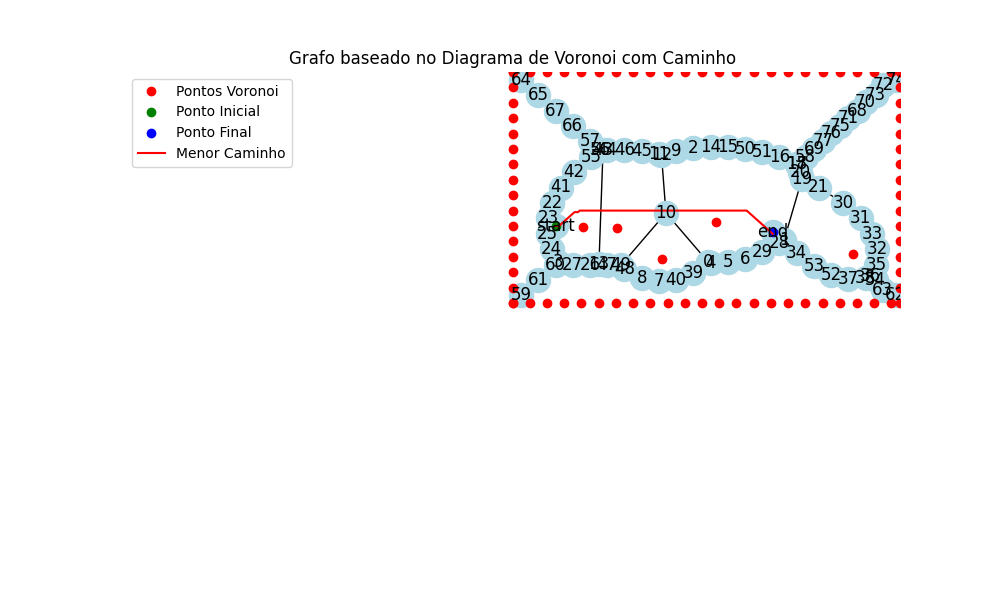
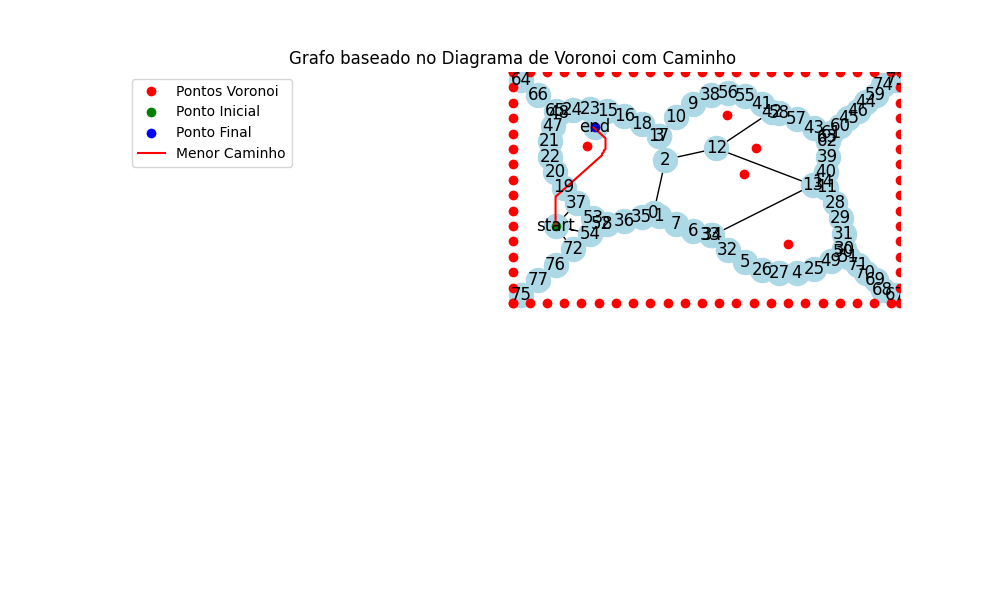
tome, agr os 3 tem path

Changed region(s): [[0.527, 0.12, 0.899, 0.51], [0.496, 0.48, 0.527, 0.51]]

diff --git a/motion/visualization.py b/motion/visualization.py
@@ -1,70 +1,48 @@
 import pygame
 import sys
 import random
-from utils.pose2D import Pose2D  # Importa a classe Pose2D
-from motion.veronoi import VoronoiGraph  # Certifique-se de que a classe VoronoiGraph está implementada corretamente no módulo motion.veronoi
-from motion.bestPath import BestPath  # Importa a classe BestPath
-
-# Para rodar usar o comando python3 -m motion.visualization
-# com o terminal na pasta UTBots-SSL-EL-Strategy
-
-# Gera pontos na borda da imagem, espaçados a cada n pixels
-def gerar_pontos_borda(largura, altura, espacamento=50, limite_maximo=100):
-    """
-    Gera pontos na borda de uma área retangular.
-    :param largura: Largura da área.
-    :param altura: Altura da área.
-    :param espacamento: Distância entre os pontos consecutivos.
-    :param limite_maximo: Número máximo de pontos a serem gerados.
-    :return: Lista de pontos na borda.
-    """
-    pontos_borda = []
-
-    # Pontos na borda superior
-    for x in range(0, largura + 1, espacamento):
-        pontos_borda.append(Pose2D(x, 0))
-        if len(pontos_borda) >= limite_maximo:
-            return pontos_borda
-
-    # Pontos na borda inferior
-    for x in range(0, largura + 1, espacamento):
-        pontos_borda.append(Pose2D(x, altura))
-        if len(pontos_borda) >= limite_maximo:
-            return pontos_borda
-
-    # Pontos na borda esquerda
-    for y in range(0, altura + 1, espacamento):
-        pontos_borda.append(Pose2D(0, y))
-        if len(pontos_borda) >= limite_maximo:
-            return pontos_borda
-
-    # Pontos na borda direita
-    for y in range(0, altura + 1, espacamento):
-        pontos_borda.append(Pose2D(largura, y))
-        if len(pontos_borda) >= limite_maximo:
-            return pontos_borda
-
-    return pontos_borda
+from utils.pose2D import Pose2D
+from motion.veronoi import VoronoiGraph
+from motion.bestPath import BestPath
 
 def visualisation():
-    # Inicializa o Pygame
     pygame.init()
 
-    # Tamanho da tela visível
-    TELA_LARGURA = 4500 * 0.2
-    TELA_ALTURA = 3000 * 0.2
+    TELA_LARGURA = int(4500 * 0.2)
+    TELA_ALTURA = int(3000 * 0.2)
     TELA = pygame.display.set_mode((TELA_LARGURA, TELA_ALTURA))
     pygame.display.set_caption("Múltiplas Trajetórias")
 
-    # Tamanho do mundo virtual
     MUNDO_LARGURA = 4500
     MUNDO_ALTURA = 3000
-    
-    # Gera os pontos na borda da imagem
-    pontos_borda = gerar_pontos_borda(MUNDO_LARGURA, MUNDO_ALTURA, espacamento=200, limite_maximo=300)
-    # Adiciona os pontos da borda à lista de pontos
 
-    # Cores
+    def gerar_pontos_borda(largura, altura, espacamento=50, limite_maximo=100):
+        pontos_borda = []
+
+        for x in range(0, largura + 1, espacamento):
+            pontos_borda.append(Pose2D(x, 0))
+            if len(pontos_borda) >= limite_maximo:
+                return pontos_borda
+
+        for x in range(0, largura + 1, espacamento):
+            pontos_borda.append(Pose2D(x, altura))
+            if len(pontos_borda) >= limite_maximo:
+                return pontos_borda
+
+        for y in range(0, altura + 1, espacamento):
+            pontos_borda.append(Pose2D(0, y))
+            if len(pontos_borda) >= limite_maximo:
+                return pontos_borda
+
+        for y in range(0, altura + 1, espacamento):
+            pontos_borda.append(Pose2D(largura, y))
+            if len(pontos_borda) >= limite_maximo:
+                return pontos_borda
+
+        return pontos_borda
+
+    pontos_borda = gerar_pontos_borda(MUNDO_LARGURA, MUNDO_ALTURA, espacamento=200, limite_maximo=300)
+    
     BRANCO = (255, 255, 255)
     VERMELHO = (255, 0, 0)
     VERDE = (0, 255, 0)
@@ -73,128 +51,97 @@ def visualisation():
     ROXO = (160, 32, 240)
     PRETO = (0, 0, 0)
 
-    # Raio real dos elementos
     RAIO_REAL = 90
     RAIO_BOLA = 21.335
 
-    # Fator de escala
     escala_x = TELA_LARGURA / MUNDO_LARGURA
     escala_y = TELA_ALTURA / MUNDO_ALTURA
     escala = min(escala_x, escala_y)
 
-    # Número de pontos e inimigos
-    NUM_PONTOS = 10
-    NUM_BOBS_INIMIGOS = 3
+    NUM_BOBS_INIMIGOS = 25
 
-    # Variáveis de controle
     linha_grossa = False
-    ultima_tecla = False  # Variável para detectar clique único na tecla
+    exibir_bolinhas_intersecoes = True
 
-    # Bobs inimigos (posicionados entre start_point e end_point)
-
-    # Gera a posição aleatória da bola laranja
     bola_laranja_pos = Pose2D(
         random.randint(0, MUNDO_LARGURA),
         random.randint(0, MUNDO_ALTURA)
     )
 
-    # Pontos de início e fim (fora do Voronoi)
     start_point = Pose2D(500, 1000)
     end_point = bola_laranja_pos
 
-    # Gera os pontos dos Bobs inimigos com uma probabilidade de serem posicionados entre start_point e end_point
+    # Gera os Bobs inimigos (obstáculos)
     pontosBobInimigos = []
-    probabilidade_na_aresta = 0.5  # 70% de chance de estar na aresta
-    
+    probabilidade_na_aresta = 0.5
     for _ in range(NUM_BOBS_INIMIGOS):
         if random.random() < probabilidade_na_aresta:
-            # Posiciona o Bob Inimigo ao longo da aresta
-            t = random.uniform(0, 1)  # Fator aleatório entre 0 e 1
+            t = random.uniform(0, 1)
             x = start_point.x + t * (end_point.x - start_point.x)
             y = start_point.y + t * (end_point.y - start_point.y)
         else:
-            # Posiciona o Bob Inimigo em uma posição aleatória no campo
             x = random.randint(90, MUNDO_LARGURA - 90)
             y = random.randint(90, MUNDO_ALTURA - 90)
-        
         pontosBobInimigos.append(Pose2D(x, y))
 
-    # Gera os pontos dos Bobs inimigos aleatórios (padrao)
-    '''pontosBobInimigos = [
-        Pose2D(random.randint(90, MUNDO_LARGURA - 90), random.randint(90, MUNDO_ALTURA - 90))
-        for _ in range(NUM_BOBS_INIMIGOS)
-    ]'''
+    fonte = pygame.font.Font(None, 36)
 
-    # Inicializa a fonte para os números
-    fonte = pygame.font.Font(None, 36)  # Fonte padrão com tamanho 36
+    # Exemplos de listas
+    pontos1 = [Pose2D(random.randint(90, MUNDO_LARGURA - 90), random.randint(90, MUNDO_ALTURA - 90))]
+    pontos2 = [Pose2D(random.randint(90, MUNDO_LARGURA - 90), random.randint(90, MUNDO_ALTURA - 90))]
+    pontos3 = [Pose2D(random.randint(90, MUNDO_LARGURA - 90), random.randint(90, MUNDO_ALTURA - 90))]
 
-    # Pontos iniciais do Voronoi
-    points = pontosBobInimigos + pontos_borda  # Adiciona os pontos da borda
-    
-    pontos2 = [Pose2D(random.randint(90, MUNDO_LARGURA - 90), random.randint(90, MUNDO_ALTURA - 90))]  # Lista vazia
-    pontos3 = [Pose2D(random.randint(90, MUNDO_LARGURA - 90), random.randint(90, MUNDO_ALTURA - 90))]  # Lista vazia
+    # Pontos para Voronoi
+    points = pontosBobInimigos + pontos_borda
+    if pontos1: points.append(pontos1[0])
+    if pontos2: points.append(pontos2[0])
+    if pontos3: points.append(pontos3[0])
 
-    if pontos2:
-        points = points + [pontos2[0]]
-    if pontos3:
-        points = points + [pontos3[0]]
-
-
-    # Cria o grafo baseado no diagrama de Voronoi
-    voronoi_graph = VoronoiGraph(points) 
-
-    # Adiciona os pontos de início e fim ao grafo
+    voronoi_graph = VoronoiGraph(points)
     voronoi_graph.add_point(start_point, "start")
     voronoi_graph.add_point(end_point, "end")
 
-    # Conecta diretamente start_point a end_point usando o novo método
-    '''
-    print("Chamando connect_external_points para conectar start e end")
-    voronoi_graph.connect_external_points(start_point, end_point, "start", "end")
-    '''
-    #====================================================================================================================================================================
-    # Encontra o menor caminho entre os dois pontos
-    
-    #utilizando Verenoi
-    #shortest_path_coords = voronoi_graph.find_shortest_path("start", "end")
-
-    #utilizando BestPath
+    # Encontra caminho de pontos1
     best_path = BestPath()
-    shortest_path_coords = best_path.find_shortest_path(start_point, end_point, pontosBobInimigos, RAIO_REAL)
 
-    # Exibe os pontos do caminho como Pose2D
-    for pose in shortest_path_coords:
-        print(f"Pose2D(x={pose.x}, y={pose.y})")
 
-    # Visualiza o grafo e o menor caminho
-    voronoi_graph.visualize(start_point, end_point, shortest_path_coords)
-    
-    # Gera os pontos do caminho como Pose2D
-    pontos1 = shortest_path_coords
-    
+    # Em vez de um único end_point, crie três destinos distintos
+    end_point1 = Pose2D(random.randint(0, MUNDO_LARGURA), random.randint(0, MUNDO_ALTURA))
+    end_point2 = Pose2D(random.randint(0, MUNDO_LARGURA), random.randint(0, MUNDO_ALTURA))
+    end_point3 = Pose2D(random.randint(0, MUNDO_LARGURA), random.randint(0, MUNDO_ALTURA))
 
-    
-    
-    # Função para desenhar uma trajetória com cor própria
+    if pontos1:
+        obstacles_for_p1 = pontosBobInimigos[:]
+        if pontos2: obstacles_for_p1.append(pontos2[0])
+        if pontos3: obstacles_for_p1.append(pontos3[0])
+        pontos1 = best_path.find_shortest_path(pontos1[0], end_point1, obstacles_for_p1, RAIO_REAL)
+
+    # Encontra caminho de pontos2
+    if pontos2:
+        obstacles_for_p2 = pontosBobInimigos[:]
+        if pontos1: obstacles_for_p2.append(pontos1[0])
+        if pontos3: obstacles_for_p2.append(pontos3[0])
+        pontos2 = best_path.find_shortest_path(pontos2[0], end_point2, obstacles_for_p2, RAIO_REAL)
+
+    # Encontra caminho de pontos3
+    if pontos3:
+        obstacles_for_p3 = pontosBobInimigos[:]
+        if pontos1: obstacles_for_p3.append(pontos1[0])
+        if pontos2: obstacles_for_p3.append(pontos2[0])
+        pontos3 = best_path.find_shortest_path(pontos3[0], end_point3, obstacles_for_p3, RAIO_REAL)
+
     def desenhar_trajetoria(pontos, cor, largura, exibir_bolinhas):
         if not pontos:
-            return  # Não faz nada se a lista estiver vazia
+            return
         ajustados = [(int(p.x * escala), int(p.y * escala)) for p in pontos]
         if len(ajustados) > 1:
-            # Desenha o contorno preto da linha
             pygame.draw.lines(TELA, PRETO, False, ajustados, largura + 2)
-            # Desenha a linha principal
             pygame.draw.lines(TELA, cor, False, ajustados, largura)
-        
-        # Adiciona círculos em todos os pontos com contorno preto, se exibir_bolinhas for True
         if exibir_bolinhas:
             for ponto in ajustados:
                 if linha_grossa:
-                    # Contorno preto
                     pygame.draw.circle(TELA, PRETO, ponto, int(RAIO_REAL * escala) + 2)
-                    # Círculo principal
                     pygame.draw.circle(TELA, cor, ponto, int(RAIO_REAL * escala))
-
         for i, ponto in enumerate(ajustados):
             if i == 0:
                 cor_ponto = VERDE
@@ -202,71 +149,51 @@ def visualisation():
                 cor_ponto = VERMELHO
             else:
                 cor_ponto = cor
-            # Contorno preto para os círculos menores
-            if exibir_bolinhas or i in (0, len(ajustados) - 1):  # Sempre exibe os pontos inicial e final
+            if exibir_bolinhas or i in (0, len(ajustados) - 1):
                 pygame.draw.circle(TELA, PRETO, ponto, 8)
                 pygame.draw.circle(TELA, cor_ponto, ponto, 6)
 
-    # Carrega a imagem de fundo
-    imagem_fundo = pygame.image.load("motion/campo.png")  
-    imagem_fundo = pygame.transform.scale(imagem_fundo, (TELA_LARGURA, TELA_ALTURA))  # Redimensiona para o tamanho da tela
+    imagem_fundo = pygame.image.load("motion/campo.png")
+    imagem_fundo = pygame.transform.scale(imagem_fundo, (TELA_LARGURA, TELA_ALTURA))
 
-    # Variável de controle para exibir ou ocultar as bolinhas entre as interseções
-    exibir_bolinhas_intersecoes = True
-
-    # Loop principal
     clock = pygame.time.Clock()
     rodando = True
-
     while rodando:
         for evento in pygame.event.get():
             if evento.type == pygame.QUIT:
                 rodando = False
-
-            # Detecta o pressionamento da tecla K (evento KEYDOWN)
             if evento.type == pygame.KEYDOWN:
                 if evento.key == pygame.K_k:
-                    exibir_bolinhas_intersecoes = not exibir_bolinhas_intersecoes  # Alterna entre True e False
-                    print(f"Debug: exibir_bolinhas_intersecoes = {exibir_bolinhas_intersecoes}")  # Debugging
-
-                # Detecta o pressionamento da tecla L para alternar a largura da linha
+                    exibir_bolinhas_intersecoes = not exibir_bolinhas_intersecoes
                 if evento.key == pygame.K_l:
-                    linha_grossa = not linha_grossa  # Alterna entre True e False
+                    linha_grossa = not linha_grossa
 
-        # Desenha a imagem de fundo
         TELA.blit(imagem_fundo, (0, 0))
 
-        # Define a largura da linha
-        largura_linha = 2 if not linha_grossa else int(RAIO_REAL / 2)  # Ajuste para uma largura de linha mais proporcional
+        largura_linha = 2 if not linha_grossa else int(RAIO_REAL / 2)
 
-        # Desenha as 3 trajetórias
         desenhar_trajetoria(pontos1, AZUL, largura_linha, exibir_bolinhas_intersecoes)
         desenhar_trajetoria(pontos2, VERDE, largura_linha, exibir_bolinhas_intersecoes)
         desenhar_trajetoria(pontos3, ROXO, largura_linha, exibir_bolinhas_intersecoes)
 
-        # Adiciona círculos preenchidos nos pontos iniciais das listas com contorno preto
-        if pontos1:  # Verifica se pontos1 não está vazio
+        if pontos1:
             pygame.draw.circle(TELA, PRETO, (int(pontos1[0].x * escala), int(pontos1[0].y * escala)), int(RAIO_REAL * escala) + 2)
             pygame.draw.circle(TELA, AZUL, (int(pontos1[0].x * escala), int(pontos1[0].y * escala)), int(RAIO_REAL * escala))
-
-        if pontos2:  # Verifica se pontos2 não está vazio
+        if pontos2:
             pygame.draw.circle(TELA, PRETO, (int(pontos2[0].x * escala), int(pontos2[0].y * escala)), int(RAIO_REAL * escala) + 2)
             pygame.draw.circle(TELA, VERDE, (int(pontos2[0].x * escala), int(pontos2[0].y * escala)), int(RAIO_REAL * escala))
-
-        if pontos3:  # Verifica se pontos3 não está vazio
+        if pontos3:
             pygame.draw.circle(TELA, PRETO, (int(pontos3[0].x * escala), int(pontos3[0].y * escala)), int(RAIO_REAL * escala) + 2)
             pygame.draw.circle(TELA, ROXO, (int(pontos3[0].x * escala), int(pontos3[0].y * escala)), int(RAIO_REAL * escala))
 
-        # Desenha os círculos dos Bobs inimigos com contorno preto
         for bob in pontosBobInimigos:
             pos = (int(bob.x * escala), int(bob.y * escala))
-            pygame.draw.circle(TELA, PRETO, pos, int(RAIO_REAL * escala) + 2)  # Contorno preto
-            pygame.draw.circle(TELA, PRETO, pos, int(RAIO_REAL * escala))  # Círculo principal
+            pygame.draw.circle(TELA, PRETO, pos, int(RAIO_REAL * escala) + 2)
+            pygame.draw.circle(TELA, PRETO, pos, int(RAIO_REAL * escala))
 
-        # Desenha a bola laranja (ou verde) com contorno preto
         bola_pos_escalada = (int(bola_laranja_pos.x * escala), int(bola_laranja_pos.y * escala))
-        pygame.draw.circle(TELA, PRETO, bola_pos_escalada, int(RAIO_BOLA * escala) + 2)  # Contorno preto (raio maior)
-        pygame.draw.circle(TELA, LARANJA, bola_pos_escalada, int(RAIO_BOLA * escala))  # Bola principal
+        pygame.draw.circle(TELA, PRETO, bola_pos_escalada, int(RAIO_BOLA * escala) + 2)
+        pygame.draw.circle(TELA, LARANJA, bola_pos_escalada, int(RAIO_BOLA * escala))
 
         pygame.display.flip()
         clock.tick(60)
